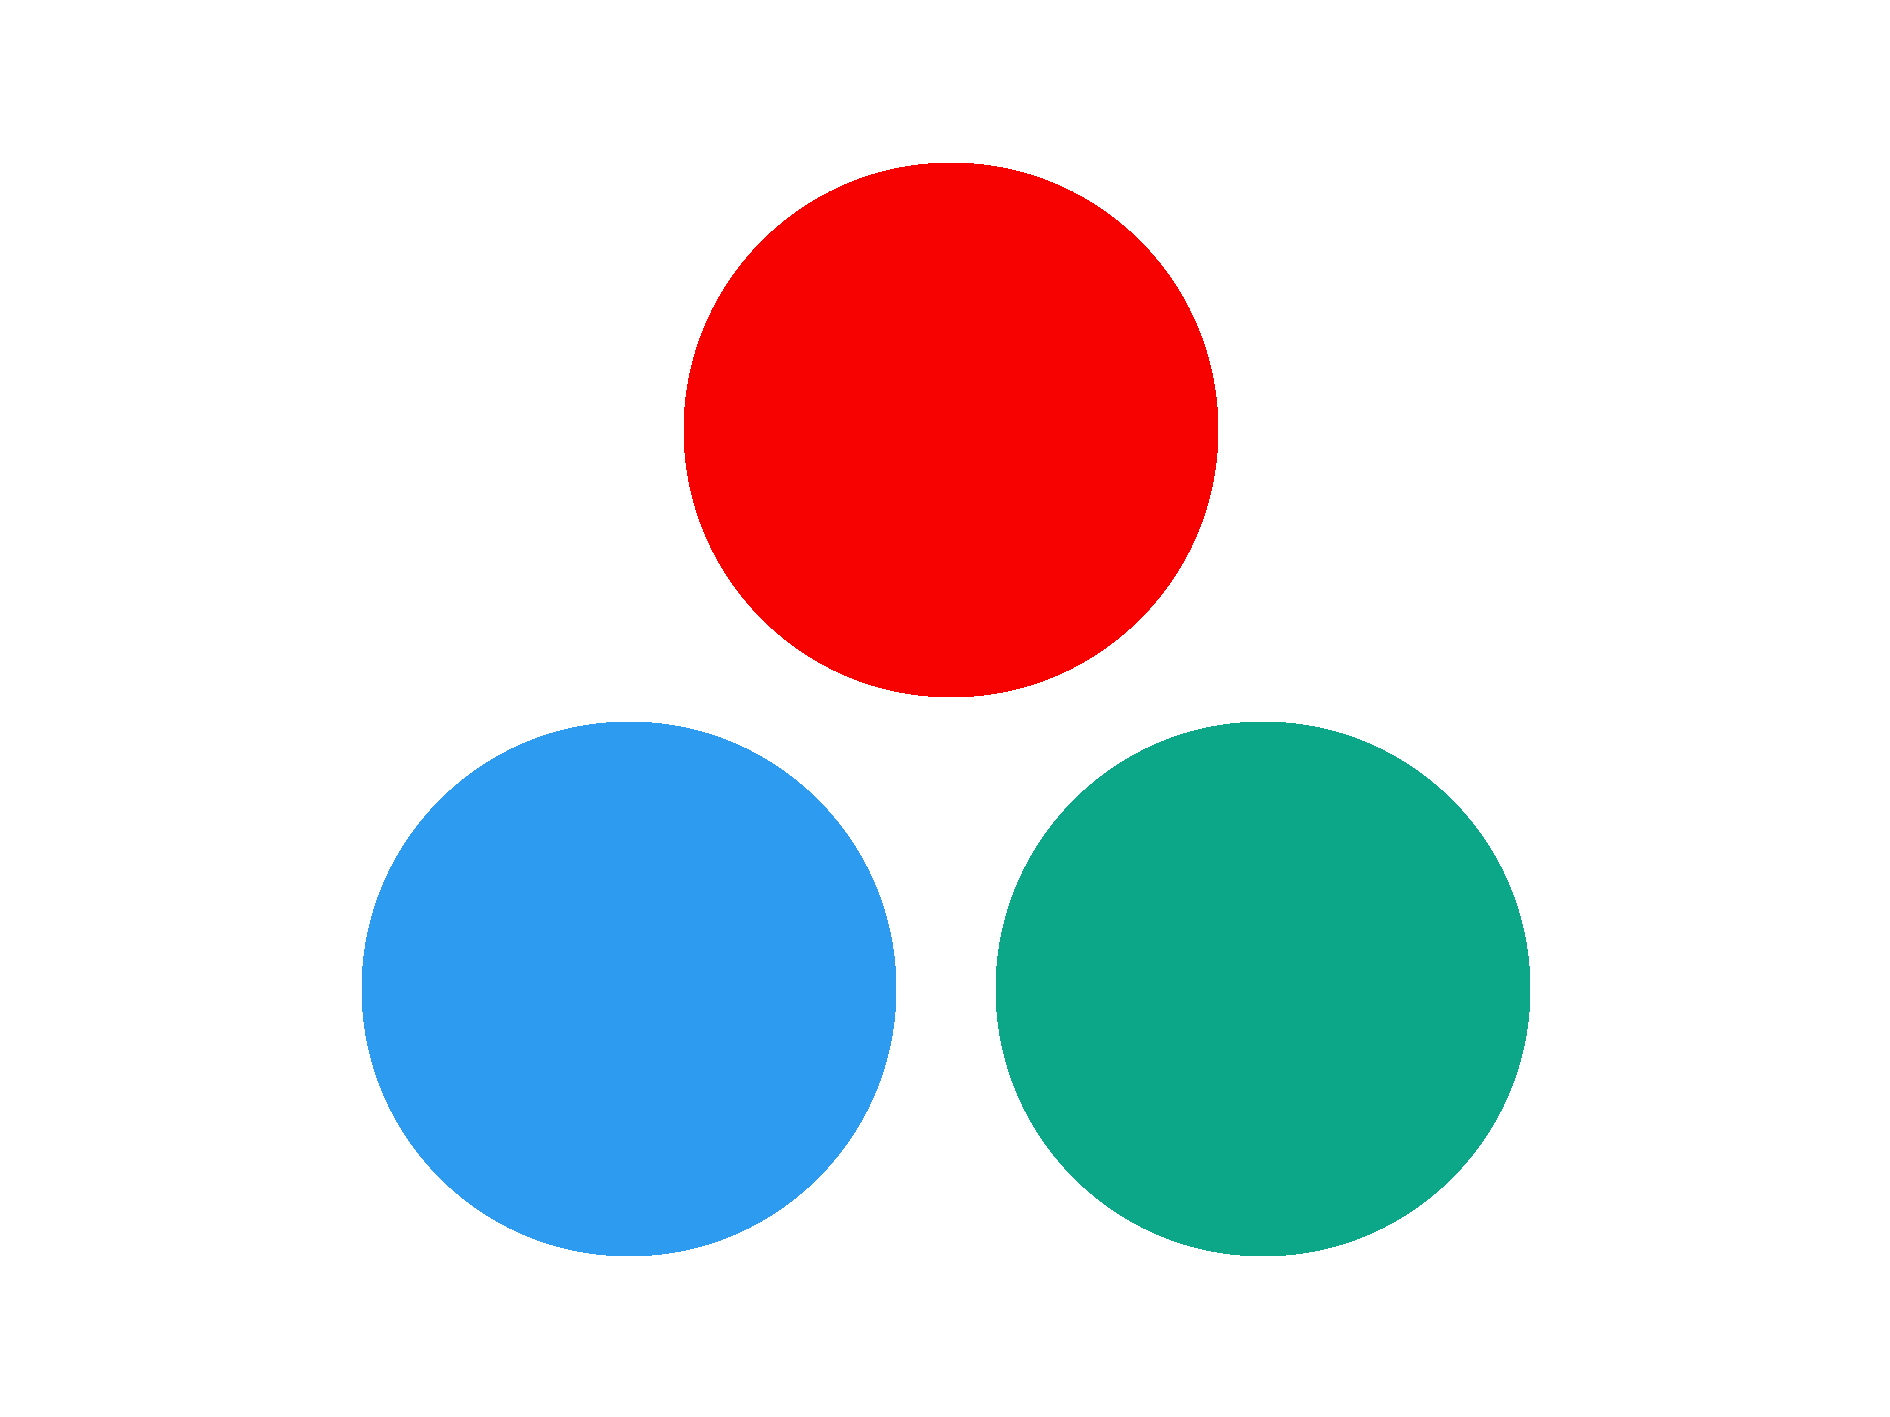
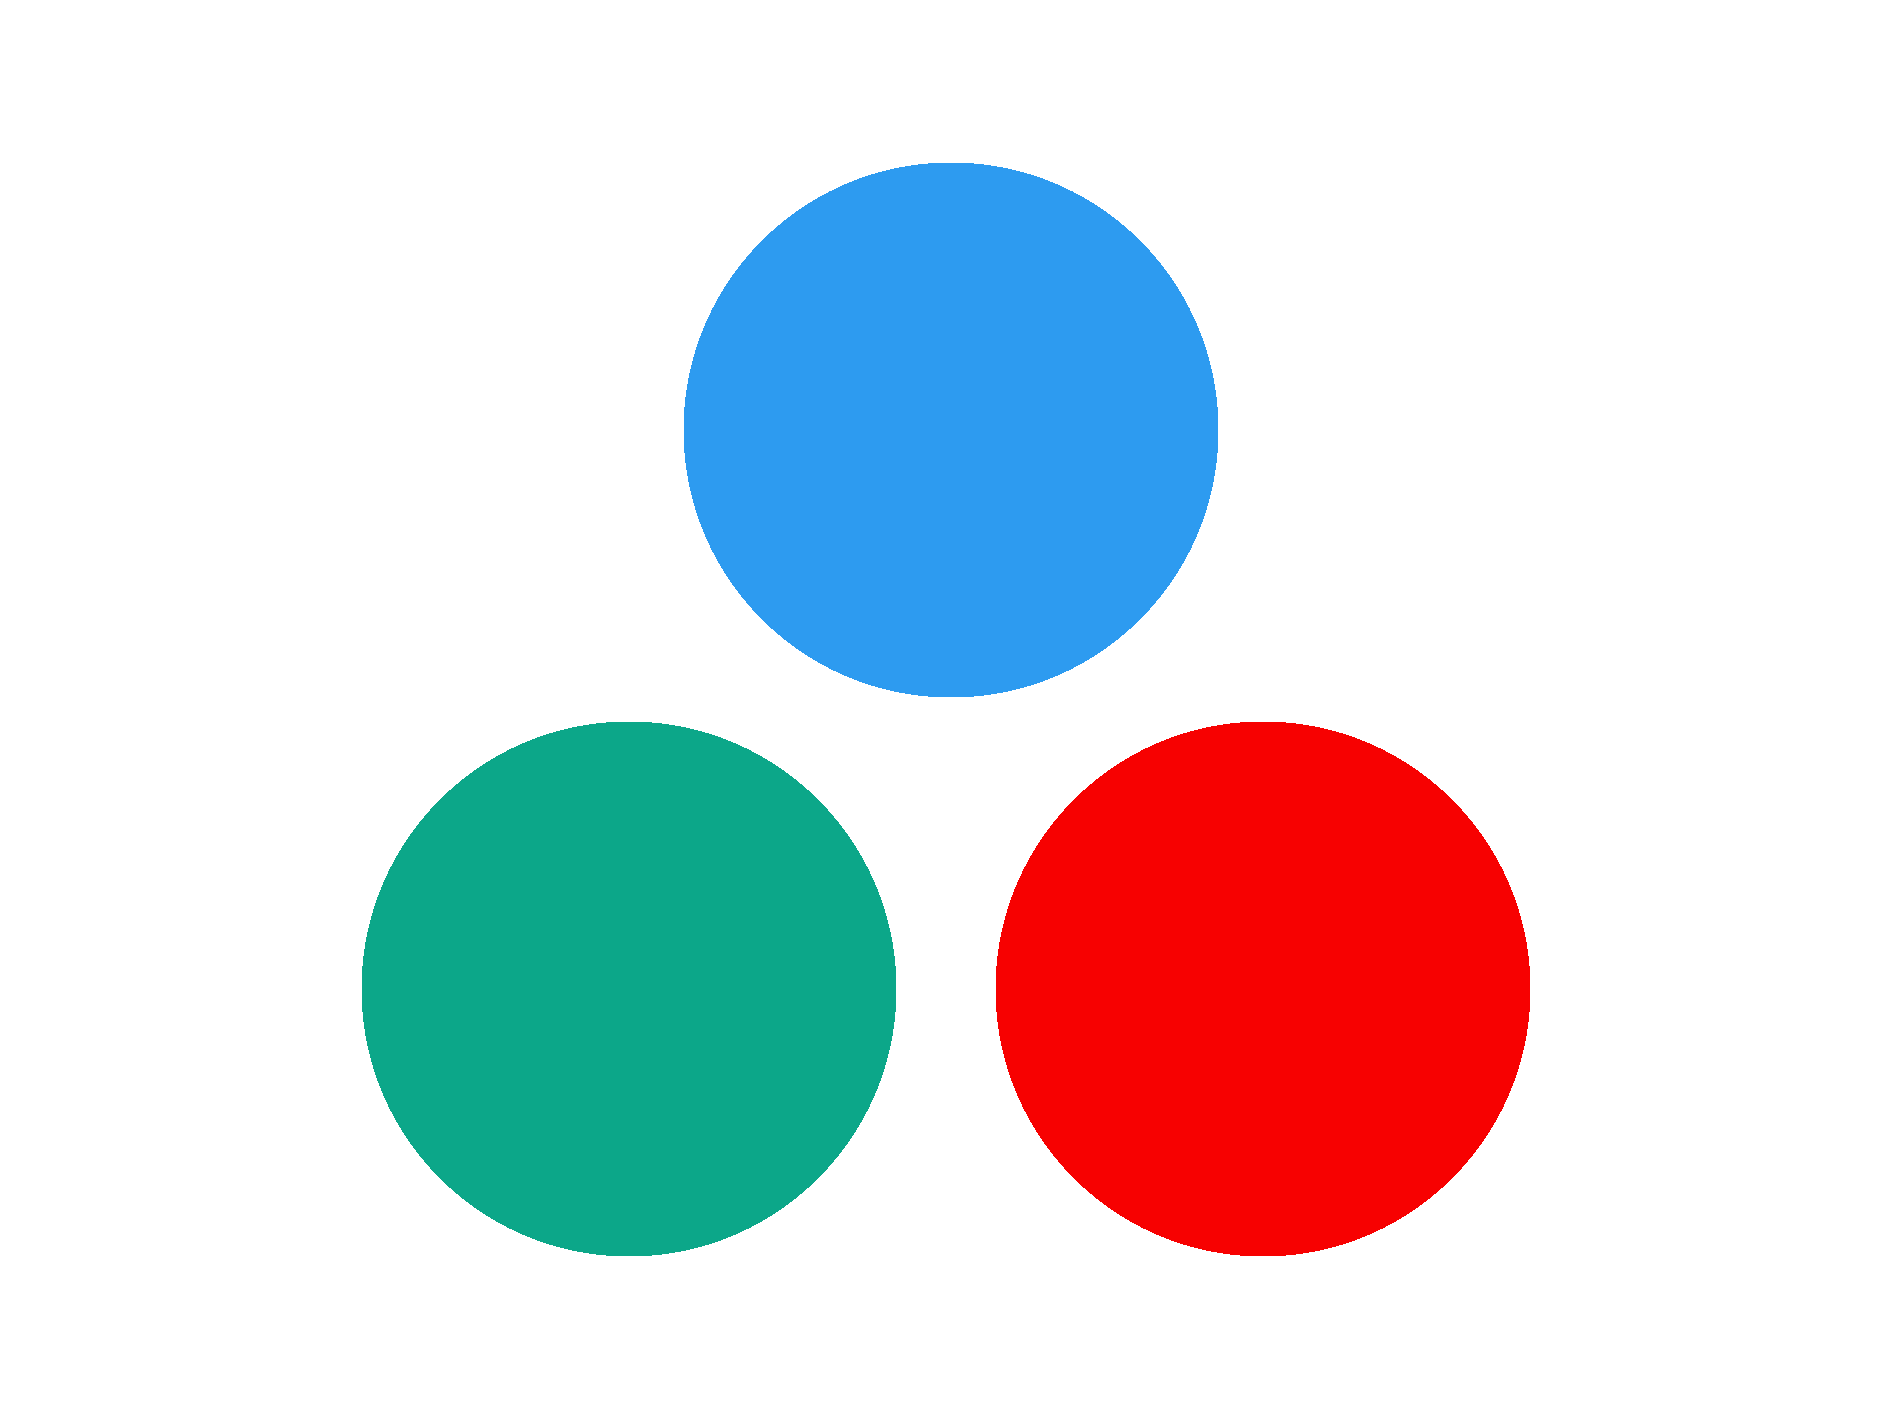
imor

Changed region(s): [[0.1873, 0.4968, 0.8116, 0.9005], [0.3434, 0.0932, 0.6556, 0.4968]]

diff --git a/Teknikfag/Display App/index.js b/Teknikfag/Display App/index.js
@@ -35,7 +35,7 @@ let knapspilWin = new Audio('./assets/Lydfiler/knapspilWin.mp3')
 let joystickStartAudio = new Audio('./assets/Lydfiler/joystickStartAudio.mp3')
 let joystickWin = new Audio('./assets/Lydfiler/joystickWin.mp3')
 let joystickLose = new Audio('./assets/Lydfiler/joystickLose.mp3')
-let slut = new Audio('./assets/Lydfiler/slut.mp3')
+let slut = new Audio('./assets/Lydfiler/Slut.mp3')
 
 function setup(){
     mqttExplain = new Audio('./assets/Lydfiler/mqttExplain.mp3')
@@ -89,12 +89,10 @@ function setup(){
 
     client.on('message', (topic, message) => {
         if(topic == 'start' && startVar == 0){
+            animateLights()
             mqttExplain.play()
             startVar = 1
             console.log('Start');
-            setTimeout(() => {
-                animateLights()
-            }, 1400);
         }
     })
 
@@ -138,6 +136,8 @@ function setup(){
     })
 
     joystick.mousePressed(()=>{
+        mqttExplain.pause();
+        mqttExplain.currentTime = 0;
         if(closeAnimVar1 == 0){
             joystickStartAudio.play()
             gameSelect.style('opacity', '0%')
@@ -178,6 +178,8 @@ function setup(){
     )
 
     buttons.mousePressed(()=>{
+        mqttExplain.pause();
+        mqttExplain.currentTime = 0;
         if(closeAnimVar2 == 0){
             knapspilStart.play()
             closeAnimVar2
@@ -217,7 +219,7 @@ function setup(){
 
                         setTimeout(() => {
                             client.publish('knapspil', 'start')
-                        }, 1500);
+                        }, 2500);
                     }, 500);
                 }, 500);
             }
@@ -227,19 +229,6 @@ function setup(){
     background('orange')
     
     //test
-
-    select('#wrong').mousePressed(
-        ()=>{
-            joystickWin.play()
-            // client.publish('knapspil', 'forkert')
-        }
-    )
-
-    select('#right').mousePressed(
-        ()=>{
-            client.publish('knapspil', 'rigtig')
-        }
-    )
 }
 
 
@@ -579,7 +568,7 @@ function draw(){
         collission()
     }
     
-    if(score == 1 && closeAnimVar1 == 0){
+    if(score == 10 && closeAnimVar1 == 0){
         closeAnimVar1 = 1
         setTimeout(() => {
             joystickWin.play()

diff --git a/Teknikfag/Display App/index.html b/Teknikfag/Display App/index.html
@@ -13,9 +13,7 @@
 </head>
 <body>
     <main>
-        <div style="position: absolute; z-index: 100; display: grid; grid-auto-flow: column;">
-            <button id="wrong">Wrong</button>
-            <button id="right">Right</button>
+        <div style="position: absolute; z-index: 100; display: grid; grid-auto-flow: column;"> 
             <button id="startAudio">start audio</button>
         </div>
         <div id="splash" class="page">
@@ -53,10 +51,10 @@
                     <div id="gameDiv">
                         <h1 id="buttonsGameTitle">Se sekvensen</h1>
                         <div id="colorDiv">
-                            <div class="colors" id="red"></div>
+                            <div class="colors" id="blue"></div>
                             <div id="colorBox">
-                                <div class="colors" id="blue"></div>
                                 <div class="colors" id="green"></div>
+                                <div class="colors" id="red"></div>
                             </div>
                         </div>
                     </div>
